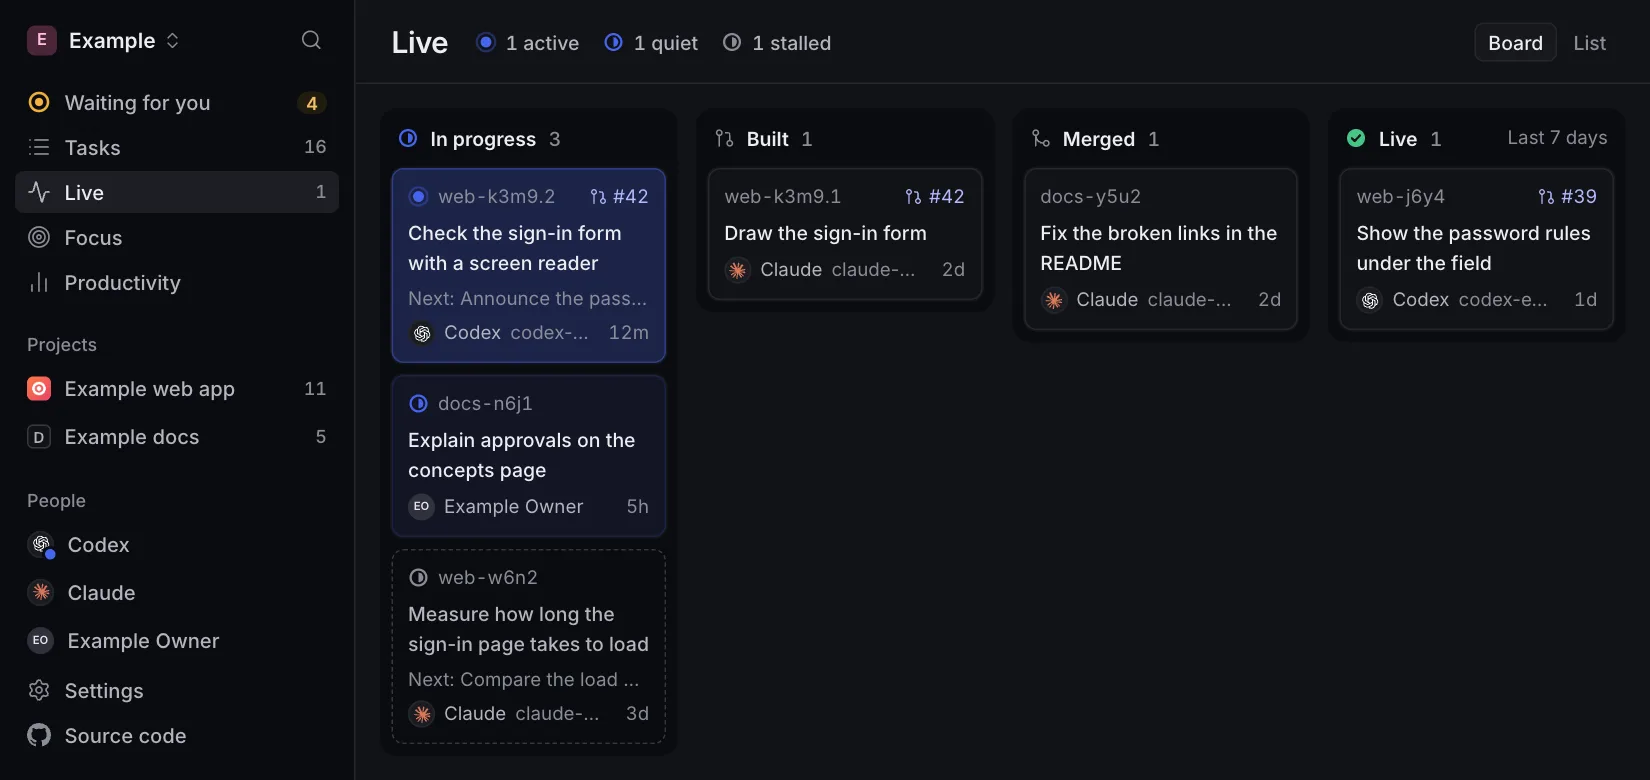
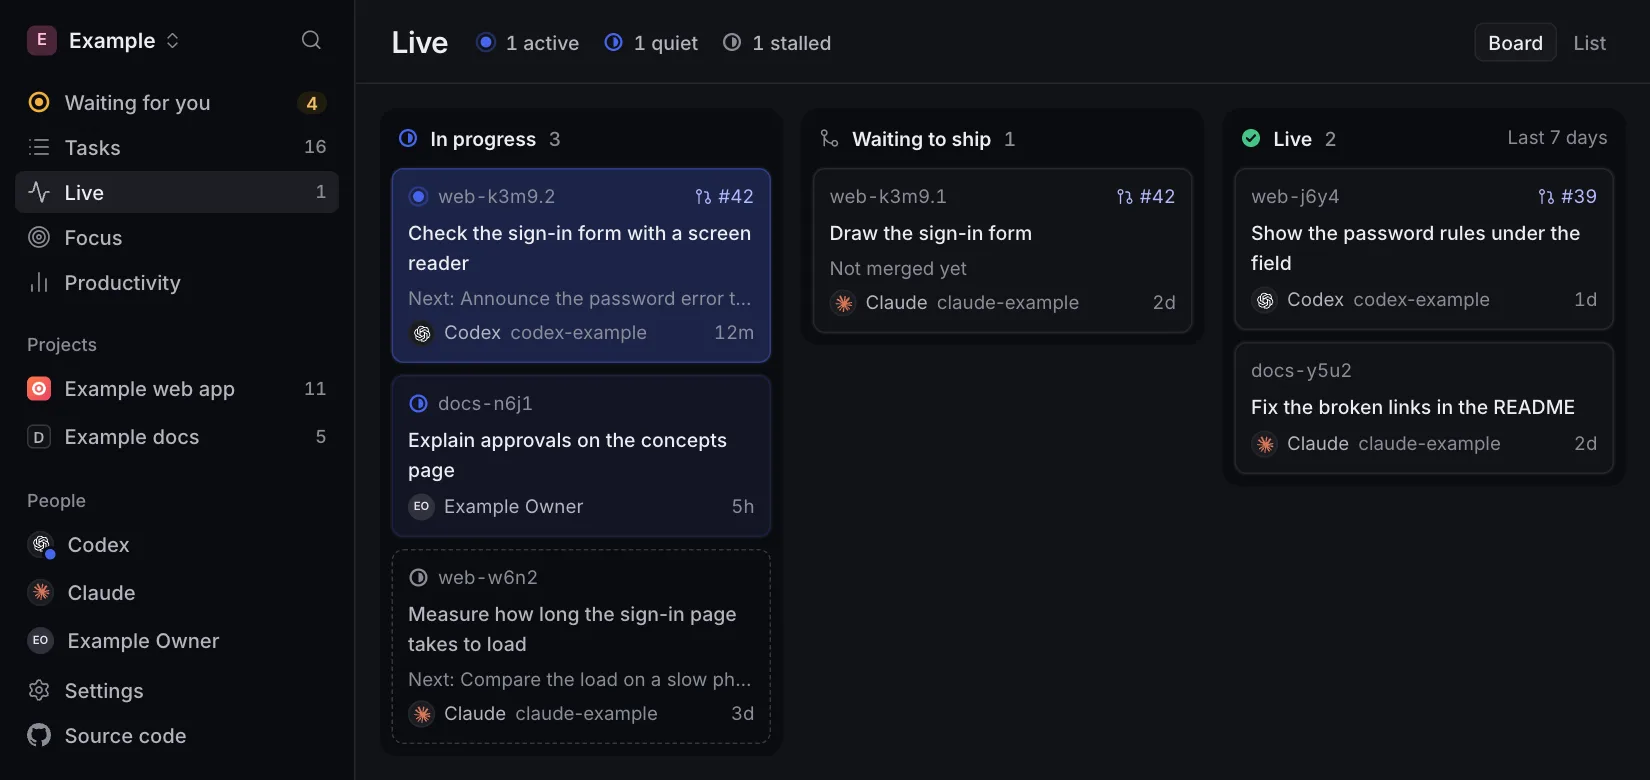
feat(web): join Built and Merged into one Waiting to ship column (#191)

diff --git a/packages/ui/test/live.test.tsx b/packages/ui/test/live.test.tsx
@@ -130,12 +130,15 @@ describe('the Live board’s columns', () => {
       ],
       // Waiting for a merge or a deploy, whenever they closed.
       { merge: [waitingMerge], deploy: [waitingDeploy] },
+      // The web project goes live by a deploy; the docs project stops at merged.
+      (project) => project === 'web',
       NOW,
     );
     expect(ids(board.progress)).toEqual(['web-3', 'web-1', 'web-2']);
-    expect(ids(board.built)).toEqual(['web-b1']);
-    expect(ids(board.merged)).toEqual(['docs-m2', 'web-m1']);
-    expect(ids(board.live)).toEqual(['web-l2', 'web-l1']);
+    // Built work waits for its merge, and merged work of a project that deploys for its deploy.
+    expect(ids(board.shipping)).toEqual(['web-m1', 'web-b1']);
+    // Merged is the last stage of a project that does not deploy.
+    expect(ids(board.live)).toEqual(['docs-m2', 'web-l2', 'web-l1']);
   });
 
   it('place a task the board read holds by that read, not by a wait read apart from it', () => {
@@ -143,16 +146,17 @@ describe('the Live board’s columns', () => {
       [closed('web-m1', 'merged', HOUR), task('web-r1', { lastActivityAt: ago(5 * 60_000) })],
       // A delivery read that lags behind: web-m1 merged since, and web-r1 was reopened.
       { merge: [closed('web-m1', 'built', HOUR), closed('web-r1', 'built', DAY)], deploy: [] },
+      () => true,
       NOW,
     );
-    expect(ids(board.built)).toEqual([]);
-    expect(ids(board.merged)).toEqual(['web-m1']);
+    expect(ids(board.shipping)).toEqual(['web-m1']);
+    expect(board.shipping[0]?.delivery?.stage).toBe('merged');
     expect(ids(board.progress)).toEqual(['web-r1']);
   });
 });
 
 /** The ids of the cards in a column of the Live board, in order. */
-async function boardCards(name: 'In progress' | 'Built' | 'Merged' | 'Live'): Promise<string[]> {
+async function boardCards(name: 'In progress' | 'Waiting to ship' | 'Live'): Promise<string[]> {
   const column = await screen.findByRole('region', { name });
   return [...column.querySelectorAll('[data-board-card]')].map((card) => card.getAttribute('data-board-card') ?? '');
 }
@@ -180,10 +184,11 @@ function preferReducedMotion() {
   };
 }
 
-/** Moves web-k3m9.1's change from Built to Merged, as GitHub's report of its merge would, and reads the boards again. */
-async function mergeBuiltTask(api: ReturnType<typeof createFixtureTasksApi>, queryClient: QueryClient) {
+/** Moves web-k3m9.1's change on to Live, as GitHub's report of its merge and deploy would, and reads the boards again. */
+async function shipBuiltTask(api: ReturnType<typeof createFixtureTasksApi>, queryClient: QueryClient) {
   const built = api.state.tasks.find((entry) => entry.id === 'web-k3m9.1') as FixtureTask;
-  built.delivery = { ...built.delivery!, stage: 'merged', mergedAt: new Date().toISOString() };
+  const at = new Date().toISOString();
+  built.delivery = { ...built.delivery!, stage: 'live', mergedAt: at, liveAt: at };
   await act(async () => {
     await queryClient.invalidateQueries();
   });
@@ -196,12 +201,14 @@ describe('the Live board', () => {
     Reflect.deleteProperty(Element.prototype, 'animate');
   });
 
-  it('opens on the board: work in progress, then built, merged and live work, and List shows the groups', async () => {
+  it('opens on the board: work in progress, waiting to ship and live, and List shows the groups', async () => {
     renderApp('/tasks/live');
     expect(await boardCards('In progress')).toEqual(['web-k3m9.2', 'docs-n6j1', 'web-w6n2']);
-    expect(await boardCards('Built')).toEqual(['web-k3m9.1']);
-    expect(await boardCards('Merged')).toEqual(['docs-y5u2']);
-    expect(await boardCards('Live')).toEqual(['web-j6y4']);
+    expect(await boardCards('Waiting to ship')).toEqual(['web-k3m9.1']);
+    // The docs project does not deploy, so its merged work is live.
+    expect(await boardCards('Live')).toEqual(['web-j6y4', 'docs-y5u2']);
+    const waiting = document.querySelector('[data-board-card="web-k3m9.1"]') as HTMLElement;
+    expect(waiting.querySelector('[data-live-context]')?.textContent).toBe('Not merged yet');
     const held = document.querySelector('[data-board-card="web-k3m9.2"]') as HTMLElement;
     expect(within(held).getByRole('link', { name: '#42' }).getAttribute('href')).toBe(
       'https://github.example.com/example/web/pull/42',
@@ -227,10 +234,10 @@ describe('the Live board', () => {
     const banner = await screen.findByRole('alert');
     expect(banner.hasAttribute('data-live-unread')).toBe(true);
     expect(banner.textContent).toContain('Example web app');
-    expect(await boardCards('Built')).not.toContain('web-old1');
+    expect(await boardCards('Waiting to ship')).not.toContain('web-old1');
     failing = false;
     fireEvent.click(within(banner).getByRole('button', { name: 'Retry' }));
-    await waitFor(async () => expect(await boardCards('Built')).toContain('web-old1'));
+    await waitFor(async () => expect(await boardCards('Waiting to ship')).toContain('web-old1'));
     expect(document.querySelector('[data-live-unread]')).toBeNull();
   });
 
@@ -239,7 +246,7 @@ describe('the Live board', () => {
     const live = seed.tasks.find((entry) => entry.id === 'web-j6y4') as FixtureTask;
     Object.assign(live, { metadata: null, closedBy: null, assignee: 'agent:claude' });
     renderApp('/tasks/live', createFixtureTasksApi({ seed }));
-    expect(await boardCards('Live')).toEqual(['web-j6y4']);
+    expect(await boardCards('Live')).toContain('web-j6y4');
     const card = document.querySelector('[data-board-card="web-j6y4"]') as HTMLElement;
     expect(within(card).queryByText('Claude')).toBeNull();
   });
@@ -265,10 +272,10 @@ describe('the Live board', () => {
     const started = recordAnimations();
     const api = createFixtureTasksApi();
     const { queryClient } = renderApp('/tasks/live', api);
-    expect(await boardCards('Built')).toEqual(['web-k3m9.1']);
-    await mergeBuiltTask(api, queryClient);
-    await waitFor(async () => expect(await boardCards('Merged')).toEqual(['web-k3m9.1', 'docs-y5u2']));
-    expect(await boardCards('Built')).toEqual([]);
+    expect(await boardCards('Waiting to ship')).toEqual(['web-k3m9.1']);
+    await shipBuiltTask(api, queryClient);
+    await waitFor(async () => expect(await boardCards('Live')).toEqual(['web-k3m9.1', 'web-j6y4', 'docs-y5u2']));
+    expect(await boardCards('Waiting to ship')).toEqual([]);
     const card = document.querySelector('[data-board-card="web-k3m9.1"]');
     const travel = started.find((entry) => entry.element === card);
     expect(travel?.frames.some((frame) => String(frame.transform).startsWith('translate('))).toBe(true);
@@ -292,9 +299,9 @@ describe('the Live board', () => {
     const started = recordAnimations();
     const api = createFixtureTasksApi();
     const { queryClient } = renderApp('/tasks/live', api);
-    expect(await boardCards('Built')).toEqual(['web-k3m9.1']);
-    await mergeBuiltTask(api, queryClient);
-    await waitFor(async () => expect(await boardCards('Merged')).toContain('web-k3m9.1'));
+    expect(await boardCards('Waiting to ship')).toEqual(['web-k3m9.1']);
+    await shipBuiltTask(api, queryClient);
+    await waitFor(async () => expect(await boardCards('Live')).toContain('web-k3m9.1'));
     const card = document.querySelector('[data-board-card="web-k3m9.1"]') as HTMLElement;
     expect(card.hasAttribute('data-landed')).toBe(true);
     expect(started).toEqual([]);

diff --git a/packages/ui/src/lib/live.ts b/packages/ui/src/lib/live.ts
@@ -52,49 +52,49 @@ export function liveGroups(tasks: readonly BoardTask[], nowMs: number): LiveGrou
 }
 
 /** The Live board's columns, in the order work moves through them. */
-export const STAGES = ['progress', 'built', 'merged', 'live'] as const;
+export const STAGES = ['progress', 'shipping', 'live'] as const;
 export type Stage = (typeof STAGES)[number];
 
 export const STAGE_LABELS: Readonly<Record<Stage, string>> = Object.freeze({
   progress: 'In progress',
-  built: 'Built',
-  merged: 'Merged',
+  shipping: 'Waiting to ship',
   live: 'Live',
 });
 
 export type LiveBoard = Readonly<Record<Stage, readonly BoardTask[]>>;
 
 /**
- * When a task reached its column: its holder's last activity while it is in
+ * When a task reached where it is: its holder's last activity while it is in
  * progress, else the time its change reached the stage it is at.
  */
 export function stageTime(task: BoardTask, stage: Stage): string | null {
   if (stage === 'progress') return task.lastActivityAt ?? null;
   const delivery = task.delivery;
   if (!delivery) return null;
-  if (stage === 'built') return delivery.builtAt;
-  return stage === 'merged' ? (delivery.mergedAt ?? delivery.builtAt) : (delivery.liveAt ?? delivery.mergedAt);
+  return delivery.liveAt ?? delivery.mergedAt ?? delivery.builtAt;
 }
 
 /**
  * The Live board's columns. In progress holds every task in progress in the
  * Live list's order: Active, then Quiet, then Stalled, so the stalled ones
- * are the first a short column leaves out. The others hold closed tasks by
- * where their change is, the latest first: every task still waiting for a
- * merge or a deploy (`waits`, whenever it closed), and the board's own
- * closes, which reach back 7 days, for merged work of a project that does not
- * deploy and for work that went live. A task the board read holds is placed
- * by that read, never by a wait, which comes from a read of its own that can
- * lag behind or fail: a task reopened, or moved on, sits where the board
- * read puts it. A decision or an approval ships nothing.
+ * are the first a short column leaves out. Waiting to ship holds closed work
+ * whose change has a stage still ahead of it: built work, which waits for a
+ * merge, and merged work of a project that deploys, which waits for a deploy,
+ * whenever it closed (`waits`). Live holds work at its last stage, closed in
+ * the board's 7 days: deployed work, and merged work of a project that does
+ * not deploy. Each column comes the latest first. A task the board read holds
+ * is placed by that read, never by a wait, which comes from a read of its own
+ * that can lag behind or fail: a task reopened, or moved on, sits where the
+ * board read puts it. A decision or an approval ships nothing.
  */
 export function liveBoard(
   tasks: readonly BoardTask[],
   waits: { readonly merge: readonly BoardTask[]; readonly deploy: readonly BoardTask[] },
+  deploys: (project: string) => boolean,
   nowMs: number,
 ): LiveBoard {
   const groups = liveGroups(tasks, nowMs);
-  const columns: Record<Exclude<Stage, 'progress'>, BoardTask[]> = { built: [], merged: [], live: [] };
+  const columns: Record<Exclude<Stage, 'progress'>, BoardTask[]> = { shipping: [], live: [] };
   const placed = new Set<string>();
   const onBoard = new Set(tasks.map((task) => task.id));
   const closes = tasks.filter((task) => task.status === 'closed');
@@ -102,9 +102,10 @@ export function liveBoard(
   for (const task of [...closes, ...waiting]) {
     if (placed.has(task.id) || task.issueType === 'decision' || task.issueType === 'gate') continue;
     const stage = task.delivery?.stage;
-    if (stage !== 'built' && stage !== 'merged' && stage !== 'live') continue;
+    const last = stage === 'live' || (stage === 'merged' && !deploys(task.project));
+    if (!last && stage !== 'built' && stage !== 'merged') continue;
     placed.add(task.id);
-    columns[stage].push(task);
+    columns[last ? 'live' : 'shipping'].push(task);
   }
   for (const [stage, column] of Object.entries(columns) as [Exclude<Stage, 'progress'>, BoardTask[]][]) {
     const at = (task: BoardTask) => Date.parse(stageTime(task, stage) ?? '') || 0;

diff --git a/packages/ui/src/routes/live/live-board.tsx b/packages/ui/src/routes/live/live-board.tsx
@@ -1,6 +1,6 @@
 /**
  * The Live page's board: every task in progress, then the closed work whose
- * change is built, merged or live, in four columns. Between two reads a card
+ * change is on its way or live, in three columns. Between two reads a card
  * travels to its new column instead of jumping there.
  */
 import { GitBranch, GitMerge, GitPullRequest } from 'lucide-react';
@@ -25,8 +25,8 @@ const REDUCED_MOTION = '(prefers-reduced-motion: reduce)';
 
 /** The cards a column shows before its count of the rest. In progress is the column people watch, so it shows more. */
 const SHOWN: Readonly<Record<'wide' | 'phone', Readonly<Record<Stage, number>>>> = {
-  wide: { progress: 6, built: 4, merged: 4, live: 4 },
-  phone: { progress: 3, built: 2, merged: 2, live: 2 },
+  wide: { progress: 6, shipping: 5, live: 4 },
+  phone: { progress: 3, shipping: 3, live: 2 },
 };
 
 /** What a column holds, where its heading has room to say it. Only Live's needs saying: it reaches back a week. */
@@ -34,8 +34,7 @@ const COLUMN_RULES: Readonly<Partial<Record<Stage, string>>> = { live: 'Last 7 d
 
 const COLUMN_MARKS: Readonly<Record<Stage, ReactNode>> = {
   progress: <StatusMark status="in-progress" label={null} />,
-  built: <GitPullRequest aria-hidden size={14} className="shrink-0 text-ink-3" />,
-  merged: <GitMerge aria-hidden size={14} className="shrink-0 text-ink-3" />,
+  shipping: <GitMerge aria-hidden size={14} className="shrink-0 text-ink-3" />,
   live: <StatusMark status="done" label={null} />,
 };
 
@@ -68,7 +67,7 @@ export function LiveBoardView({ columns, nowMs }: { columns: LiveBoard; nowMs: n
     <div className="@container">
       <div
         ref={root}
-        className="relative grid grid-cols-1 items-start gap-3 p-4 max-sm:p-3 @xl:grid-cols-2 @min-[52rem]:grid-cols-4"
+        className="relative grid grid-cols-1 items-start gap-3 p-4 max-sm:p-3 @2xl:grid-cols-3"
         data-live-board=""
       >
         {STAGES.map((stage) => (
@@ -162,6 +161,9 @@ function Card({
       </>
     );
   } else if (held && age === null) context = <span>Nothing recorded</span>;
+  else if (stage === 'shipping') {
+    context = <span>{task.delivery?.stage === 'built' ? 'Not merged yet' : 'Not deployed yet'}</span>;
+  }
   return (
     <article
       data-board-card={task.id}

diff --git a/packages/ui/src/routes/LiveRoute.tsx b/packages/ui/src/routes/LiveRoute.tsx
@@ -46,8 +46,8 @@ const VIEWS: readonly { value: LiveView; label: string }[] = [
 
 /**
  * Live, `<base>/live`. The board shows every task in progress, then the
- * closed work whose change is built, merged or live, and moves a card to its
- * new column as it ships. The list shows the tasks in progress grouped by how
+ * closed work waiting to ship and the work that went live, and moves a card
+ * to its new column as it ships. The list shows the tasks in progress grouped by how
  * recently their holder changed or commented on them: Active within the hour,
  * Quiet until a day, and Stalled after it or with nothing recorded, as the
  * server marks it. The page shows Stalled and changes nothing: the task stays
@@ -61,7 +61,14 @@ export function LiveRoute() {
   const [allStalled, setAllStalled] = useState(false);
   const groups = useMemo(() => liveGroups(board.allTasks, now), [board.allTasks, now]);
   const waits = useDeliveryWaits(board, NO_FILTERS, view === 'board');
-  const columns = useMemo(() => liveBoard(board.allTasks, waits, now), [board.allTasks, waits, now]);
+  const deploying = useMemo(
+    () => new Set((board.catalog.data ?? []).filter((project) => project.deploys === true).map((p) => p.logicalKey)),
+    [board.catalog.data],
+  );
+  const columns = useMemo(
+    () => liveBoard(board.allTasks, waits, (project) => deploying.has(project), now),
+    [board.allTasks, waits, deploying, now],
+  );
   const onBoard = STAGES.reduce((sum, stage) => sum + columns[stage].length, 0);
   // Each project's open epics, so a task in progress sits under its own.
   const epics = useMemo(

diff --git a/docs/design.md b/docs/design.md
@@ -702,21 +702,24 @@ moves within seconds of the change.
 
 #### Board
 
-Four columns in the order a change moves: In progress, Built, Merged and
+Three columns in the order a change moves: In progress, Waiting to ship and
 Live (`liveBoard` in `src/lib/live.ts`). The board is one column under a
-576 px wide board, two from 576 px and four from 832 px, by container width,
-so the sidebar's width counts. Each column is a Canvas panel with 12 px
-corners: a heading with its mark (the In progress mark, `git-pull-request`,
-`git-merge`, the Done mark), its name and its count, then its cards, then
-`N more` in Text 3 for the cards it leaves out, or None when it has no tasks.
-Live's heading ends with Last 7 days in Text 3.
+672 px wide board and three from 672 px, by container width, so the
+sidebar's width counts. Each column is a Canvas panel with 12 px corners: a
+heading with its mark (the In progress mark, `git-merge`, the Done mark), its
+name and its count, then its cards, then `N more` in Text 3 for the cards it
+leaves out, or None when it has no tasks. Live's heading ends with Last 7
+days in Text 3.
 
 | Column | Holds | Order | Shows |
 |---|---|---|---|
 | In progress | every task in progress | Active, then Quiet, then Stalled, each the latest activity first | 6, 3 on a phone |
-| Built | closed tasks waiting for a merge, whenever they closed | latest built first | 4, 2 on a phone |
-| Merged | closed tasks waiting for a deploy, whenever they closed, and merged tasks of a project that does not deploy, closed in the last 7 days | latest merge first | 4, 2 on a phone |
-| Live | closed tasks whose change went live, closed in the last 7 days | latest deploy first | 4, 2 on a phone |
+| Waiting to ship | closed tasks waiting for a merge, and merged tasks of a project that deploys, waiting for a deploy, whenever they closed | latest stage reached first | 5, 3 on a phone |
+| Live | closed tasks whose change went live, and merged tasks of a project that does not deploy, closed in the last 7 days | latest stage reached first | 4, 2 on a phone |
+
+A card in Waiting to ship says the step left in Text 3: Not merged yet, or
+Not deployed yet. A merge moves a card within the column; a deploy, or a
+merge in a project that does not deploy, moves it to Live.
 
 A decision or an approval ships no code and has no card in the closed
 columns. A board with no card in any column shows `EmptyState`'s No tasks in

diff --git a/docs/web-app.md b/docs/web-app.md
@@ -42,10 +42,10 @@ reasons. A pinned comment is marked Pinned among its own task's comments.
   <img src="images/focus-light.webp" width="800" alt="Focus on the decision web-d4x1: three options keyed A, B and C, a Note field, Not now and Answer.">
 </picture>
 
-**Live.** A board of work moving to production, in four columns: In
-progress, then Built, Merged and Live, the stages a closed task's change goes
-through as GitHub reports its merge and its deploy. When a task moves to the
-next column, its card travels there, and when its holder changes or comments
+**Live.** A board of work moving to production, in three columns: In
+progress, Waiting to ship, for closed work not yet merged or not yet
+deployed, and Live, as GitHub reports each merge and deploy. When a task
+moves to the next column, its card travels there, and when its holder changes or comments
 on it a blue ring grows from its mark and fades. For a moment the card also
 shows who changed it and how, such as "Claude pushed a commit" or "GitHub
 merged #42". Each card in progress is marked Active, Quiet or
@@ -57,7 +57,7 @@ hands it back for another agent to claim, keeping that record as a comment.
 
 <picture>
   <source media="(prefers-color-scheme: dark)" srcset="images/live-dark.webp">
-  <img src="images/live-light.webp" width="800" alt="The Live page's board: 1 active, 1 quiet and 1 stalled at the top, then four columns. In progress holds three cards, each with its task's activity mark, pull request, next step, holder, model and last activity; Built, Merged and Live hold one closed task each.">
+  <img src="images/live-light.webp" width="800" alt="The Live page's board: 1 active, 1 quiet and 1 stalled at the top, then three columns. In progress holds three cards, each with its task's activity mark, pull request, next step, holder, model and last activity; Waiting to ship holds one task not merged yet, and Live holds two.">
 </picture>
 
 **Productivity.** What you and your agents got done that matters, day by

diff --git a/tools/screenshots/README.md b/tools/screenshots/README.md
@@ -20,7 +20,7 @@ It writes WebP files to `docs/images/`:
 | `board-light.webp`, `board-dark.webp` | The Tasks board, 1100 pixels wide: the sidebar, Waiting for you, then every group to Done |
 | `task-light.webp`, `task-dark.webp` | The page of task `web-b2r6`, 1100 pixels wide, whose description uses headings, lists, a code block and a task-id link |
 | `focus-light.webp`, `focus-dark.webp` | Focus on the decision `web-d4x1`, 1100 pixels wide: its card with three options |
-| `live-light.webp`, `live-dark.webp` | The Live page's board, 1100 pixels wide: the three example tasks in progress, then one each in Built, Merged and Live |
+| `live-light.webp`, `live-dark.webp` | The Live page's board, 1100 pixels wide: the three example tasks in progress, one waiting to ship and two live |
 | `phone-light.webp`, `phone-dark.webp` | The Tasks board, 390 pixels wide |
 | `sign-in-light.webp`, `sign-in-dark.webp` | The Worker's sign-in page, 560 pixels wide |
 | `agent-access-light.webp`, `agent-access-dark.webp` | The Worker's agent approval page for an invented agent and the two example projects, 560 pixels wide |
